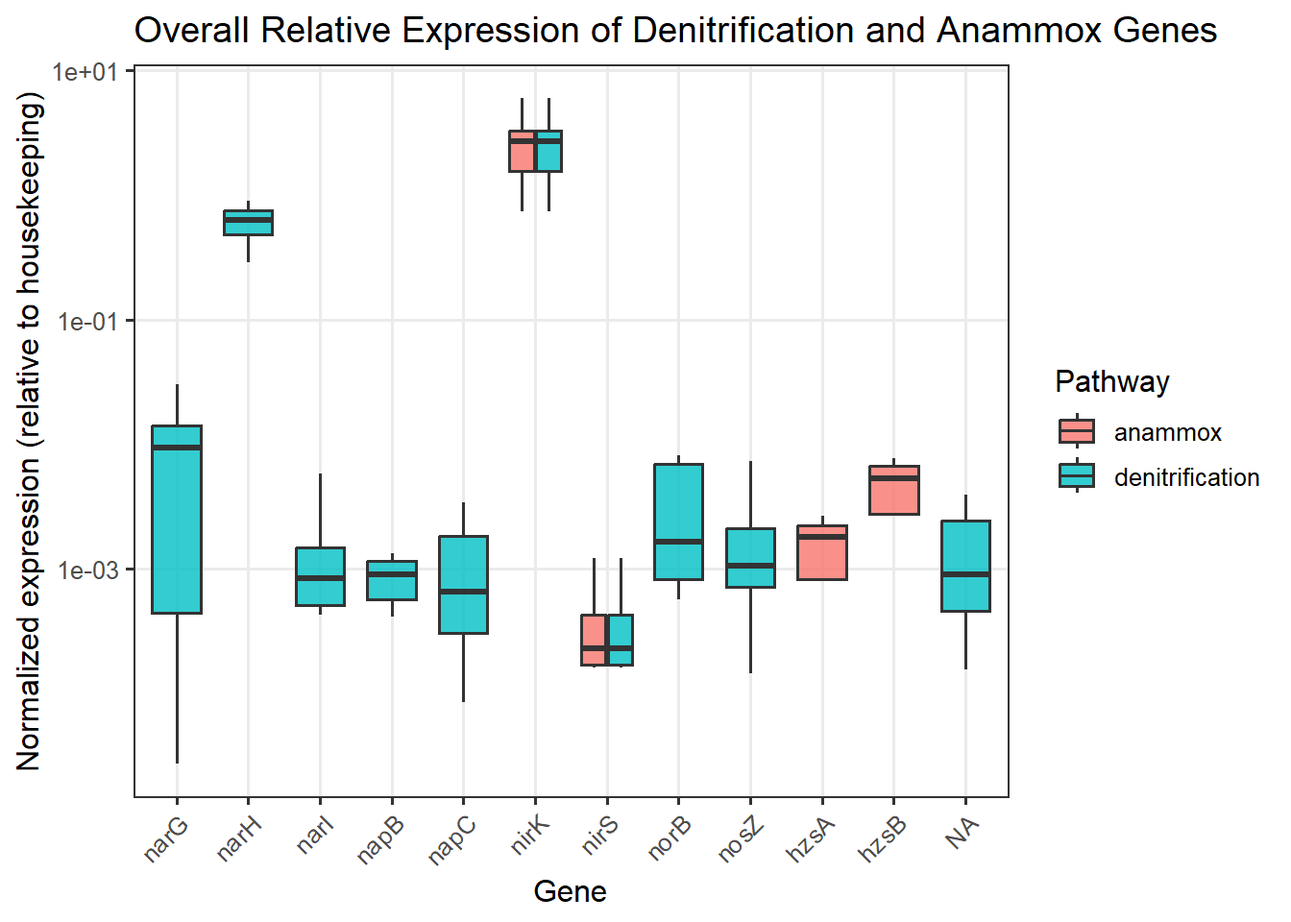
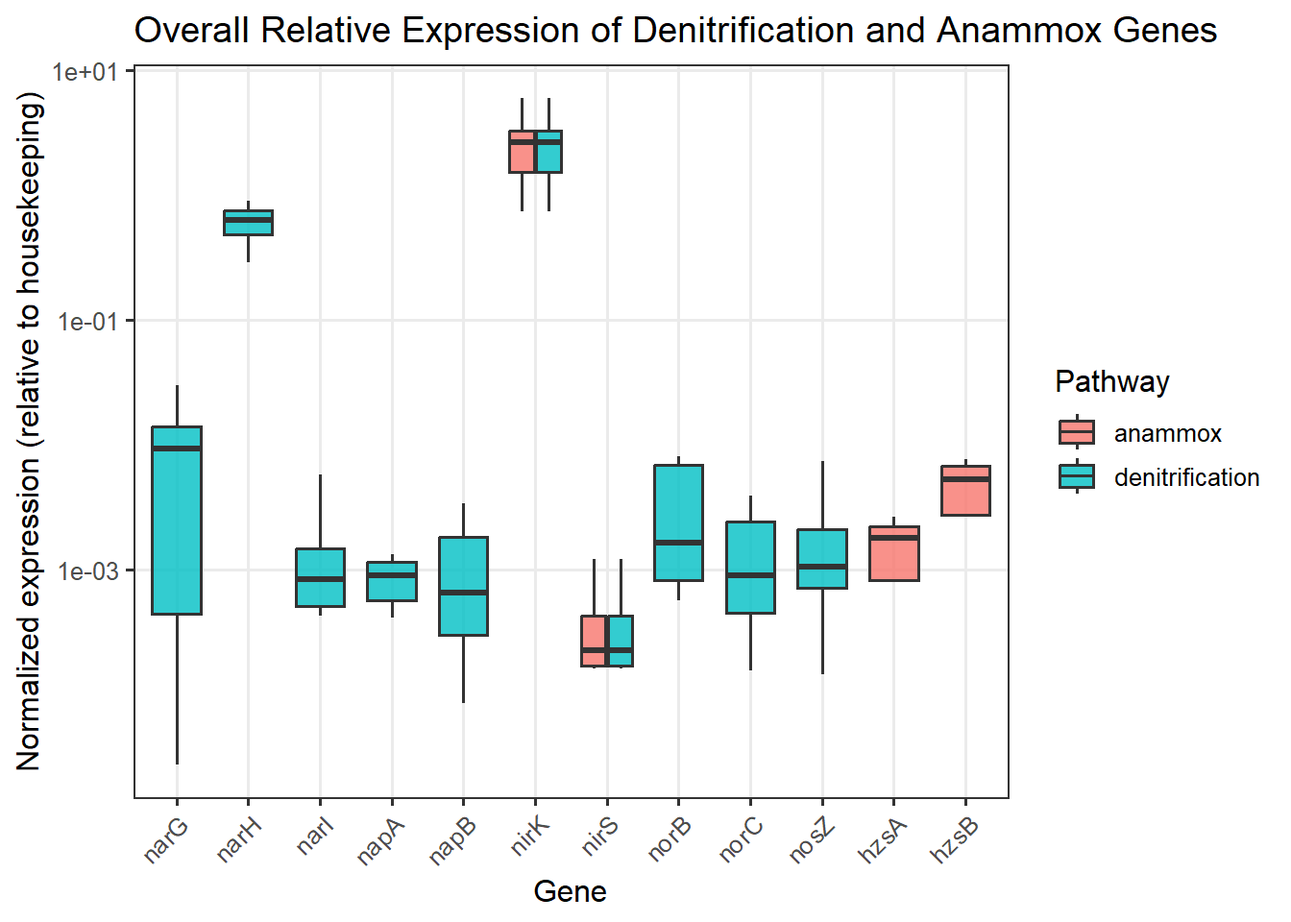
updates from home

diff --git a/_site/index.html b/_site/index.html
@@ -147,7 +147,10 @@ pre > code.sourceCode > span > a:first-child::before { text-decoration: underlin
   <li><a href="#station-3-1" id="toc-station-3-1" class="nav-link" data-scroll-target="#station-3-1">Station 3</a></li>
   <li><a href="#summary-1" id="toc-summary-1" class="nav-link" data-scroll-target="#summary-1">Summary</a></li>
   </ul></li>
-  <li><a href="#normalising-gene-coverages" id="toc-normalising-gene-coverages" class="nav-link" data-scroll-target="#normalising-gene-coverages">Normalising gene coverages</a></li>
+  <li><a href="#normalising-gene-coverages" id="toc-normalising-gene-coverages" class="nav-link" data-scroll-target="#normalising-gene-coverages">Normalising gene coverages</a>
+  <ul class="collapse">
+  <li><a href="#final-figure-functional-classification" id="toc-final-figure-functional-classification" class="nav-link" data-scroll-target="#final-figure-functional-classification">Final figure: functional classification</a></li>
+  </ul></li>
   <li><a href="#mapping-transcripts-to-genomes-of-potential-denitrifiers" id="toc-mapping-transcripts-to-genomes-of-potential-denitrifiers" class="nav-link" data-scroll-target="#mapping-transcripts-to-genomes-of-potential-denitrifiers">Mapping transcripts to genomes of potential denitrifiers</a></li>
   <li><a href="#extraction-of-the-community-profile" id="toc-extraction-of-the-community-profile" class="nav-link" data-scroll-target="#extraction-of-the-community-profile">Extraction of the community profile</a>
   <ul class="collapse">
@@ -4383,13 +4386,6 @@ code {
 </div>
 <p>Same for the housekeeping genes:</p>
 <div class="cell">
-<div class="cell-output cell-output-stdout">
-<pre><code># A tibble: 0 × 5
-# ℹ 5 variables: station &lt;chr&gt;, sample &lt;chr&gt;, rpoB_cov &lt;dbl&gt;, gyrB_cov &lt;dbl&gt;,
-#   hk_geom &lt;dbl&gt;</code></pre>
-</div>
-</div>
-<div class="cell">
 <div class="cell-output-display">
 <div>
 <figure class="figure">
@@ -4433,6 +4429,26 @@ code {
 <p><strong>Interpretation of denitrification gene expression patterns</strong> The heatmap reveals that denitrification activity is dominated by the nitrite reduction step, with nirK (K00368) showing consistently higher normalized expression than other genes, particularly in mid-depth samples such as St3_S14M. In contrast, genes involved in nitrate reduction (nar and nap complexes) exhibit moderate and more uniform expression across samples, suggesting that upstream substrate availability may not be limiting. Notably, expression of nosZ (K00376), responsible for the final reduction of N₂O to N₂, is consistently low or absent, indicating that denitrification may be incomplete and potentially leading to the accumulation of nitrous oxide. Overall, the observed patterns suggest that denitrification is actively expressed in the studied water column, with pronounced variability across depths and stations, and a potential imbalance between upstream and downstream steps of the pathway.</p>
 </div>
 </div>
+</section>
+<section id="final-figure-functional-classification" class="level3">
+<h3 class="anchored" data-anchor-id="final-figure-functional-classification">Final figure: functional classification</h3>
+<p>Let’s use discret values instead of a continuous gradient of normailsed expression.</p>
+<ul>
+<li>Values around 0.1–1 → very strong expression</li>
+<li>Values around 0.01–0.1 → moderate</li>
+<li>Values &lt;0.001 → low but detectable</li>
+<li>Values ≈0 → absent / negligible</li>
+</ul>
+<div class="cell">
+<div class="cell-output-display">
+<div>
+<figure class="figure">
+<p><img src="BIOPOLE_Chukchi_metaT_files/figure-html/unnamed-chunk-41-1.png" class="img-fluid figure-img" width="768"></p>
+</figure>
+</div>
+</div>
+</div>
+<p>Expression levels were categorized into four classes based on normalized coverage: absent (0), low (&lt;0.1%), moderate (10⁻²–10⁻¹), and high (&gt;10⁻¹), allowing visualization of relative transcriptional activity across denitrification steps.</p>
 </section>
 </section>
 <section id="mapping-transcripts-to-genomes-of-potential-denitrifiers" class="level2">
@@ -4508,35 +4524,35 @@ code {
 <div class="cell">
 <details class="code-fold">
 <summary>Code</summary>
-<div class="code-copy-outer-scaffold"><div class="sourceCode cell-code" id="cb28"><pre class="sourceCode bash code-with-copy"><code class="sourceCode bash"><span id="cb28-1"><a href="#cb28-1" aria-hidden="true" tabindex="-1"></a><span class="ex">kraken2</span> <span class="dt">\</span></span>
-<span id="cb28-2"><a href="#cb28-2" aria-hidden="true" tabindex="-1"></a>  <span class="at">--db</span> /dssgfs01/scratch/ote_db/kraken/kraken_standard-16 <span class="dt">\ </span></span>
-<span id="cb28-3"><a href="#cb28-3" aria-hidden="true" tabindex="-1"></a>  <span class="ex">--threads</span> 60 <span class="dt">\ </span></span>
-<span id="cb28-4"><a href="#cb28-4" aria-hidden="true" tabindex="-1"></a>  <span class="ex">--gzip-compressed</span> <span class="dt">\ </span></span>
-<span id="cb28-5"><a href="#cb28-5" aria-hidden="true" tabindex="-1"></a>  <span class="ex">--report</span> St1_S4S_report.txt <span class="dt">\ </span></span>
-<span id="cb28-6"><a href="#cb28-6" aria-hidden="true" tabindex="-1"></a>  <span class="ex">--output</span> St1_S4S_kraken.out <span class="dt">\ </span></span>
-<span id="cb28-7"><a href="#cb28-7" aria-hidden="true" tabindex="-1"></a>  <span class="ex">--paired</span> 1-S4S/1-S4S_RNA_clean_fwd.fq.gz 1-S4S/1-S4S_RNA_clean_rev.fq.gz</span>
-<span id="cb28-8"><a href="#cb28-8" aria-hidden="true" tabindex="-1"></a>  </span></code></pre></div><button title="Copy to Clipboard" class="code-copy-button"><i class="bi"></i></button></div>
+<div class="code-copy-outer-scaffold"><div class="sourceCode cell-code" id="cb27"><pre class="sourceCode bash code-with-copy"><code class="sourceCode bash"><span id="cb27-1"><a href="#cb27-1" aria-hidden="true" tabindex="-1"></a><span class="ex">kraken2</span> <span class="dt">\</span></span>
+<span id="cb27-2"><a href="#cb27-2" aria-hidden="true" tabindex="-1"></a>  <span class="at">--db</span> /dssgfs01/scratch/ote_db/kraken/kraken_standard-16 <span class="dt">\ </span></span>
+<span id="cb27-3"><a href="#cb27-3" aria-hidden="true" tabindex="-1"></a>  <span class="ex">--threads</span> 60 <span class="dt">\ </span></span>
+<span id="cb27-4"><a href="#cb27-4" aria-hidden="true" tabindex="-1"></a>  <span class="ex">--gzip-compressed</span> <span class="dt">\ </span></span>
+<span id="cb27-5"><a href="#cb27-5" aria-hidden="true" tabindex="-1"></a>  <span class="ex">--report</span> St1_S4S_report.txt <span class="dt">\ </span></span>
+<span id="cb27-6"><a href="#cb27-6" aria-hidden="true" tabindex="-1"></a>  <span class="ex">--output</span> St1_S4S_kraken.out <span class="dt">\ </span></span>
+<span id="cb27-7"><a href="#cb27-7" aria-hidden="true" tabindex="-1"></a>  <span class="ex">--paired</span> 1-S4S/1-S4S_RNA_clean_fwd.fq.gz 1-S4S/1-S4S_RNA_clean_rev.fq.gz</span>
+<span id="cb27-8"><a href="#cb27-8" aria-hidden="true" tabindex="-1"></a>  </span></code></pre></div><button title="Copy to Clipboard" class="code-copy-button"><i class="bi"></i></button></div>
 </details>
 </div>
 <div class="cell">
 <details class="code-fold">
 <summary>Code</summary>
-<div class="code-copy-outer-scaffold"><div class="sourceCode cell-code" id="cb29"><pre class="sourceCode bash code-with-copy"><code class="sourceCode bash"><span id="cb29-1"><a href="#cb29-1" aria-hidden="true" tabindex="-1"></a><span class="ex">bracken</span> <span class="dt">\</span></span>
-<span id="cb29-2"><a href="#cb29-2" aria-hidden="true" tabindex="-1"></a>  <span class="at">-d</span> /dssgfs01/scratch/ote_db/kraken/kraken_standard-16 <span class="dt">\</span></span>
-<span id="cb29-3"><a href="#cb29-3" aria-hidden="true" tabindex="-1"></a>  <span class="at">-i</span> St1_S4S_report.txt <span class="dt">\</span></span>
-<span id="cb29-4"><a href="#cb29-4" aria-hidden="true" tabindex="-1"></a>  <span class="at">-o</span> St1_S4S.bracken.F <span class="dt">\</span></span>
-<span id="cb29-5"><a href="#cb29-5" aria-hidden="true" tabindex="-1"></a>  <span class="at">-r</span> 150 <span class="dt">\</span></span>
-<span id="cb29-6"><a href="#cb29-6" aria-hidden="true" tabindex="-1"></a>  <span class="at">-l</span> F</span></code></pre></div><button title="Copy to Clipboard" class="code-copy-button"><i class="bi"></i></button></div>
+<div class="code-copy-outer-scaffold"><div class="sourceCode cell-code" id="cb28"><pre class="sourceCode bash code-with-copy"><code class="sourceCode bash"><span id="cb28-1"><a href="#cb28-1" aria-hidden="true" tabindex="-1"></a><span class="ex">bracken</span> <span class="dt">\</span></span>
+<span id="cb28-2"><a href="#cb28-2" aria-hidden="true" tabindex="-1"></a>  <span class="at">-d</span> /dssgfs01/scratch/ote_db/kraken/kraken_standard-16 <span class="dt">\</span></span>
+<span id="cb28-3"><a href="#cb28-3" aria-hidden="true" tabindex="-1"></a>  <span class="at">-i</span> St1_S4S_report.txt <span class="dt">\</span></span>
+<span id="cb28-4"><a href="#cb28-4" aria-hidden="true" tabindex="-1"></a>  <span class="at">-o</span> St1_S4S.bracken.F <span class="dt">\</span></span>
+<span id="cb28-5"><a href="#cb28-5" aria-hidden="true" tabindex="-1"></a>  <span class="at">-r</span> 150 <span class="dt">\</span></span>
+<span id="cb28-6"><a href="#cb28-6" aria-hidden="true" tabindex="-1"></a>  <span class="at">-l</span> F</span></code></pre></div><button title="Copy to Clipboard" class="code-copy-button"><i class="bi"></i></button></div>
 </details>
 </div>
 <div class="cell">
 <details class="code-fold">
 <summary>Code</summary>
-<div class="code-copy-outer-scaffold"><div class="sourceCode cell-code" id="cb30"><pre class="sourceCode bash code-with-copy"><code class="sourceCode bash"><span id="cb30-1"><a href="#cb30-1" aria-hidden="true" tabindex="-1"></a><span class="co"># 1) Convert Kraken2 output to Krona input</span></span>
-<span id="cb30-2"><a href="#cb30-2" aria-hidden="true" tabindex="-1"></a><span class="fu">cut</span> <span class="at">-f2,3</span> St1_S4S_kraken.out <span class="op">&gt;</span> St1_S4S.krona.tsv</span>
-<span id="cb30-3"><a href="#cb30-3" aria-hidden="true" tabindex="-1"></a></span>
-<span id="cb30-4"><a href="#cb30-4" aria-hidden="true" tabindex="-1"></a><span class="co"># 2) Make the Krona HTML</span></span>
-<span id="cb30-5"><a href="#cb30-5" aria-hidden="true" tabindex="-1"></a><span class="ex">ktImportTaxonomy</span> <span class="at">-t</span> 2 <span class="at">-m</span> 3 <span class="at">-o</span> St1_S4S_krona.html St1_S4S.krona.tsv</span></code></pre></div><button title="Copy to Clipboard" class="code-copy-button"><i class="bi"></i></button></div>
+<div class="code-copy-outer-scaffold"><div class="sourceCode cell-code" id="cb29"><pre class="sourceCode bash code-with-copy"><code class="sourceCode bash"><span id="cb29-1"><a href="#cb29-1" aria-hidden="true" tabindex="-1"></a><span class="co"># 1) Convert Kraken2 output to Krona input</span></span>
+<span id="cb29-2"><a href="#cb29-2" aria-hidden="true" tabindex="-1"></a><span class="fu">cut</span> <span class="at">-f2,3</span> St1_S4S_kraken.out <span class="op">&gt;</span> St1_S4S.krona.tsv</span>
+<span id="cb29-3"><a href="#cb29-3" aria-hidden="true" tabindex="-1"></a></span>
+<span id="cb29-4"><a href="#cb29-4" aria-hidden="true" tabindex="-1"></a><span class="co"># 2) Make the Krona HTML</span></span>
+<span id="cb29-5"><a href="#cb29-5" aria-hidden="true" tabindex="-1"></a><span class="ex">ktImportTaxonomy</span> <span class="at">-t</span> 2 <span class="at">-m</span> 3 <span class="at">-o</span> St1_S4S_krona.html St1_S4S.krona.tsv</span></code></pre></div><button title="Copy to Clipboard" class="code-copy-button"><i class="bi"></i></button></div>
 </details>
 </div>
 <p>Approximately <strong>17%</strong> of metatranscriptomic reads could be taxonomically classified using Kraken2 with the standard database (16 GB). Krona plots were therefore generated using classified reads only, and complementary family-level profiles were produced using Bracken.</p>
@@ -4546,7 +4562,7 @@ code {
 <div class="cell-output-display">
 <div>
 <figure class="figure">
-<p><img src="BIOPOLE_Chukchi_metaT_files/figure-html/unnamed-chunk-44-1.png" class="img-fluid figure-img" width="672"></p>
+<p><img src="BIOPOLE_Chukchi_metaT_files/figure-html/unnamed-chunk-45-1.png" class="img-fluid figure-img" width="672"></p>
 </figure>
 </div>
 </div>
@@ -4558,7 +4574,7 @@ code {
 <div class="cell-output-display">
 <div>
 <figure class="figure">
-<p><img src="BIOPOLE_Chukchi_metaT_files/figure-html/unnamed-chunk-45-1.png" class="img-fluid figure-img" width="672"></p>
+<p><img src="BIOPOLE_Chukchi_metaT_files/figure-html/unnamed-chunk-46-1.png" class="img-fluid figure-img" width="672"></p>
 </figure>
 </div>
 </div>
@@ -4570,7 +4586,7 @@ code {
 <div class="cell-output-display">
 <div>
 <figure class="figure">
-<p><img src="BIOPOLE_Chukchi_metaT_files/figure-html/unnamed-chunk-46-1.png" class="img-fluid figure-img" width="672"></p>
+<p><img src="BIOPOLE_Chukchi_metaT_files/figure-html/unnamed-chunk-47-1.png" class="img-fluid figure-img" width="672"></p>
 </figure>
 </div>
 </div>
@@ -4658,86 +4674,86 @@ code {
 <div class="cell">
 <details class="code-fold">
 <summary>Code</summary>
-<div class="code-copy-outer-scaffold"><div class="sourceCode cell-code" id="cb31"><pre class="sourceCode bash code-with-copy"><code class="sourceCode bash"><span id="cb31-1"><a href="#cb31-1" aria-hidden="true" tabindex="-1"></a><span class="co"># 1) Download the catalog of all genomes and files:</span></span>
-<span id="cb31-2"><a href="#cb31-2" aria-hidden="true" tabindex="-1"></a><span class="ex">curl</span> <span class="at">-O</span> https://sunagawalab.ethz.ch/share/microbiomics/ocean/db/2.0/data/catalogs/OMDBv2.0_data.tsv.gz</span>
-<span id="cb31-3"><a href="#cb31-3" aria-hidden="true" tabindex="-1"></a></span>
-<span id="cb31-4"><a href="#cb31-4" aria-hidden="true" tabindex="-1"></a><span class="co"># 2) Unzip it</span></span>
-<span id="cb31-5"><a href="#cb31-5" aria-hidden="true" tabindex="-1"></a><span class="fu">gunzip</span> OMDBv2.0_data.tsv.gz</span>
-<span id="cb31-6"><a href="#cb31-6" aria-hidden="true" tabindex="-1"></a></span>
-<span id="cb31-7"><a href="#cb31-7" aria-hidden="true" tabindex="-1"></a><span class="co"># 3) Use it to download the MAGs associated with SAMEA4397903</span></span>
-<span id="cb31-8"><a href="#cb31-8" aria-hidden="true" tabindex="-1"></a><span class="fu">grep</span> <span class="st">"TARA_SAMEA4397903_MAG_"</span> OMDBv2.0_data.tsv <span class="kw">|</span> <span class="fu">cut</span> <span class="at">-f4</span> <span class="kw">|</span> <span class="fu">xargs</span> <span class="at">-n</span> 1 curl <span class="at">-O</span></span></code></pre></div><button title="Copy to Clipboard" class="code-copy-button"><i class="bi"></i></button></div>
+<div class="code-copy-outer-scaffold"><div class="sourceCode cell-code" id="cb30"><pre class="sourceCode bash code-with-copy"><code class="sourceCode bash"><span id="cb30-1"><a href="#cb30-1" aria-hidden="true" tabindex="-1"></a><span class="co"># 1) Download the catalog of all genomes and files:</span></span>
+<span id="cb30-2"><a href="#cb30-2" aria-hidden="true" tabindex="-1"></a><span class="ex">curl</span> <span class="at">-O</span> https://sunagawalab.ethz.ch/share/microbiomics/ocean/db/2.0/data/catalogs/OMDBv2.0_data.tsv.gz</span>
+<span id="cb30-3"><a href="#cb30-3" aria-hidden="true" tabindex="-1"></a></span>
+<span id="cb30-4"><a href="#cb30-4" aria-hidden="true" tabindex="-1"></a><span class="co"># 2) Unzip it</span></span>
+<span id="cb30-5"><a href="#cb30-5" aria-hidden="true" tabindex="-1"></a><span class="fu">gunzip</span> OMDBv2.0_data.tsv.gz</span>
+<span id="cb30-6"><a href="#cb30-6" aria-hidden="true" tabindex="-1"></a></span>
+<span id="cb30-7"><a href="#cb30-7" aria-hidden="true" tabindex="-1"></a><span class="co"># 3) Use it to download the MAGs associated with SAMEA4397903</span></span>
+<span id="cb30-8"><a href="#cb30-8" aria-hidden="true" tabindex="-1"></a><span class="fu">grep</span> <span class="st">"TARA_SAMEA4397903_MAG_"</span> OMDBv2.0_data.tsv <span class="kw">|</span> <span class="fu">cut</span> <span class="at">-f4</span> <span class="kw">|</span> <span class="fu">xargs</span> <span class="at">-n</span> 1 curl <span class="at">-O</span></span></code></pre></div><button title="Copy to Clipboard" class="code-copy-button"><i class="bi"></i></button></div>
 </details>
 </div>
 <p>Now I want to change the name of the MAGs so they show the name of the species they have been associated to:</p>
 <div class="cell">
 <details class="code-fold">
 <summary>Code</summary>
-<div class="code-copy-outer-scaffold"><div class="sourceCode cell-code" id="cb32"><pre class="sourceCode bash code-with-copy"><code class="sourceCode bash"><span id="cb32-1"><a href="#cb32-1" aria-hidden="true" tabindex="-1"></a><span class="fu">awk</span> <span class="at">-F</span><span class="st">'\t'</span> <span class="st">'NR&gt;1 {print $1 "\t" $8}'</span> taxonomy_mags <span class="kw">|</span> <span class="cf">while</span> <span class="va">IFS</span><span class="op">=</span><span class="st">$'</span><span class="dt">\t</span><span class="st">'</span> <span class="bu">read</span> <span class="at">-r</span> <span class="va">id</span> <span class="va">species</span><span class="kw">;</span> <span class="cf">do</span></span>
-<span id="cb32-2"><a href="#cb32-2" aria-hidden="true" tabindex="-1"></a>    <span class="va">species_clean</span><span class="op">=</span><span class="va">$(</span><span class="bu">echo</span> <span class="st">"</span><span class="va">$species</span><span class="st">"</span> <span class="kw">|</span> <span class="fu">tr</span> <span class="st">' /'</span> <span class="st">'__'</span><span class="va">)</span></span>
-<span id="cb32-3"><a href="#cb32-3" aria-hidden="true" tabindex="-1"></a>    <span class="va">old</span><span class="op">=</span><span class="st">"</span><span class="va">${id}</span><span class="st">.fa.gz"</span></span>
-<span id="cb32-4"><a href="#cb32-4" aria-hidden="true" tabindex="-1"></a>    <span class="va">base</span><span class="op">=</span><span class="st">"</span><span class="va">${species_clean}</span><span class="st">.fa.gz"</span></span>
-<span id="cb32-5"><a href="#cb32-5" aria-hidden="true" tabindex="-1"></a></span>
-<span id="cb32-6"><a href="#cb32-6" aria-hidden="true" tabindex="-1"></a>    <span class="bu">[</span> <span class="ot">-e</span> <span class="st">"</span><span class="va">$old</span><span class="st">"</span> <span class="bu">]</span> <span class="kw">||</span> <span class="cf">continue</span></span>
-<span id="cb32-7"><a href="#cb32-7" aria-hidden="true" tabindex="-1"></a></span>
-<span id="cb32-8"><a href="#cb32-8" aria-hidden="true" tabindex="-1"></a>    <span class="va">new</span><span class="op">=</span><span class="st">"</span><span class="va">$base</span><span class="st">"</span></span>
-<span id="cb32-9"><a href="#cb32-9" aria-hidden="true" tabindex="-1"></a>    <span class="va">n</span><span class="op">=</span>2</span>
-<span id="cb32-10"><a href="#cb32-10" aria-hidden="true" tabindex="-1"></a>    <span class="cf">while</span> <span class="bu">[</span> <span class="ot">-e</span> <span class="st">"</span><span class="va">$new</span><span class="st">"</span> <span class="bu">]</span><span class="kw">;</span> <span class="cf">do</span></span>
-<span id="cb32-11"><a href="#cb32-11" aria-hidden="true" tabindex="-1"></a>        <span class="va">new</span><span class="op">=</span><span class="st">"</span><span class="va">${species_clean}</span><span class="st">_</span><span class="va">${n}</span><span class="st">.fa.gz"</span></span>
-<span id="cb32-12"><a href="#cb32-12" aria-hidden="true" tabindex="-1"></a>        <span class="va">n</span><span class="op">=</span><span class="va">$((n</span><span class="op">+</span><span class="dv">1</span><span class="va">))</span></span>
-<span id="cb32-13"><a href="#cb32-13" aria-hidden="true" tabindex="-1"></a>    <span class="cf">done</span></span>
-<span id="cb32-14"><a href="#cb32-14" aria-hidden="true" tabindex="-1"></a></span>
-<span id="cb32-15"><a href="#cb32-15" aria-hidden="true" tabindex="-1"></a>    <span class="fu">mv</span> <span class="st">"</span><span class="va">$old</span><span class="st">"</span> <span class="st">"</span><span class="va">$new</span><span class="st">"</span></span>
-<span id="cb32-16"><a href="#cb32-16" aria-hidden="true" tabindex="-1"></a><span class="cf">done</span></span></code></pre></div><button title="Copy to Clipboard" class="code-copy-button"><i class="bi"></i></button></div>
+<div class="code-copy-outer-scaffold"><div class="sourceCode cell-code" id="cb31"><pre class="sourceCode bash code-with-copy"><code class="sourceCode bash"><span id="cb31-1"><a href="#cb31-1" aria-hidden="true" tabindex="-1"></a><span class="fu">awk</span> <span class="at">-F</span><span class="st">'\t'</span> <span class="st">'NR&gt;1 {print $1 "\t" $8}'</span> taxonomy_mags <span class="kw">|</span> <span class="cf">while</span> <span class="va">IFS</span><span class="op">=</span><span class="st">$'</span><span class="dt">\t</span><span class="st">'</span> <span class="bu">read</span> <span class="at">-r</span> <span class="va">id</span> <span class="va">species</span><span class="kw">;</span> <span class="cf">do</span></span>
+<span id="cb31-2"><a href="#cb31-2" aria-hidden="true" tabindex="-1"></a>    <span class="va">species_clean</span><span class="op">=</span><span class="va">$(</span><span class="bu">echo</span> <span class="st">"</span><span class="va">$species</span><span class="st">"</span> <span class="kw">|</span> <span class="fu">tr</span> <span class="st">' /'</span> <span class="st">'__'</span><span class="va">)</span></span>
+<span id="cb31-3"><a href="#cb31-3" aria-hidden="true" tabindex="-1"></a>    <span class="va">old</span><span class="op">=</span><span class="st">"</span><span class="va">${id}</span><span class="st">.fa.gz"</span></span>
+<span id="cb31-4"><a href="#cb31-4" aria-hidden="true" tabindex="-1"></a>    <span class="va">base</span><span class="op">=</span><span class="st">"</span><span class="va">${species_clean}</span><span class="st">.fa.gz"</span></span>
+<span id="cb31-5"><a href="#cb31-5" aria-hidden="true" tabindex="-1"></a></span>
+<span id="cb31-6"><a href="#cb31-6" aria-hidden="true" tabindex="-1"></a>    <span class="bu">[</span> <span class="ot">-e</span> <span class="st">"</span><span class="va">$old</span><span class="st">"</span> <span class="bu">]</span> <span class="kw">||</span> <span class="cf">continue</span></span>
+<span id="cb31-7"><a href="#cb31-7" aria-hidden="true" tabindex="-1"></a></span>
+<span id="cb31-8"><a href="#cb31-8" aria-hidden="true" tabindex="-1"></a>    <span class="va">new</span><span class="op">=</span><span class="st">"</span><span class="va">$base</span><span class="st">"</span></span>
+<span id="cb31-9"><a href="#cb31-9" aria-hidden="true" tabindex="-1"></a>    <span class="va">n</span><span class="op">=</span>2</span>
+<span id="cb31-10"><a href="#cb31-10" aria-hidden="true" tabindex="-1"></a>    <span class="cf">while</span> <span class="bu">[</span> <span class="ot">-e</span> <span class="st">"</span><span class="va">$new</span><span class="st">"</span> <span class="bu">]</span><span class="kw">;</span> <span class="cf">do</span></span>
+<span id="cb31-11"><a href="#cb31-11" aria-hidden="true" tabindex="-1"></a>        <span class="va">new</span><span class="op">=</span><span class="st">"</span><span class="va">${species_clean}</span><span class="st">_</span><span class="va">${n}</span><span class="st">.fa.gz"</span></span>
+<span id="cb31-12"><a href="#cb31-12" aria-hidden="true" tabindex="-1"></a>        <span class="va">n</span><span class="op">=</span><span class="va">$((n</span><span class="op">+</span><span class="dv">1</span><span class="va">))</span></span>
+<span id="cb31-13"><a href="#cb31-13" aria-hidden="true" tabindex="-1"></a>    <span class="cf">done</span></span>
+<span id="cb31-14"><a href="#cb31-14" aria-hidden="true" tabindex="-1"></a></span>
+<span id="cb31-15"><a href="#cb31-15" aria-hidden="true" tabindex="-1"></a>    <span class="fu">mv</span> <span class="st">"</span><span class="va">$old</span><span class="st">"</span> <span class="st">"</span><span class="va">$new</span><span class="st">"</span></span>
+<span id="cb31-16"><a href="#cb31-16" aria-hidden="true" tabindex="-1"></a><span class="cf">done</span></span></code></pre></div><button title="Copy to Clipboard" class="code-copy-button"><i class="bi"></i></button></div>
 </details>
 </div>
 <p>After unziping them all, we can generate an</p>
 <div class="cell">
 <details class="code-fold">
 <summary>Code</summary>
-<div class="code-copy-outer-scaffold"><div class="sourceCode cell-code" id="cb33"><pre class="sourceCode bash code-with-copy"><code class="sourceCode bash"><span id="cb33-1"><a href="#cb33-1" aria-hidden="true" tabindex="-1"></a><span class="cf">for</span> i <span class="kw">in</span> <span class="kw">`</span><span class="fu">ls</span> <span class="pp">*</span>fa <span class="kw">|</span> <span class="fu">awk</span> <span class="st">'BEGIN{FS=".fa"}{print $1}'</span><span class="kw">`</span></span>
-<span id="cb33-2"><a href="#cb33-2" aria-hidden="true" tabindex="-1"></a><span class="cf">do</span></span>
-<span id="cb33-3"><a href="#cb33-3" aria-hidden="true" tabindex="-1"></a>    <span class="ex">anvi-gen-contigs-database</span> <span class="at">-f</span> <span class="va">$i</span>.fa <span class="at">-o</span> <span class="va">$i</span>.db <span class="at">-T</span> 60</span>
-<span id="cb33-4"><a href="#cb33-4" aria-hidden="true" tabindex="-1"></a>    <span class="ex">anvi-run-hmms</span> <span class="at">-c</span> <span class="va">$i</span>.db <span class="at">-T</span> 60</span>
-<span id="cb33-5"><a href="#cb33-5" aria-hidden="true" tabindex="-1"></a>    <span class="ex">anvi-run-ncbi-cogs</span> <span class="at">-c</span> <span class="va">$i</span>.db <span class="at">-T</span> 30</span>
-<span id="cb33-6"><a href="#cb33-6" aria-hidden="true" tabindex="-1"></a>    <span class="ex">anvi-run-kegg-kofams</span> <span class="at">-c</span> <span class="va">$i</span>.db <span class="at">-T</span> 30</span>
-<span id="cb33-7"><a href="#cb33-7" aria-hidden="true" tabindex="-1"></a>    <span class="ex">anvi-run-scg-taxonomy</span> <span class="at">-c</span> <span class="va">$i</span>.db <span class="at">-T</span> 30</span>
-<span id="cb33-8"><a href="#cb33-8" aria-hidden="true" tabindex="-1"></a><span class="cf">done</span></span></code></pre></div><button title="Copy to Clipboard" class="code-copy-button"><i class="bi"></i></button></div>
+<div class="code-copy-outer-scaffold"><div class="sourceCode cell-code" id="cb32"><pre class="sourceCode bash code-with-copy"><code class="sourceCode bash"><span id="cb32-1"><a href="#cb32-1" aria-hidden="true" tabindex="-1"></a><span class="cf">for</span> i <span class="kw">in</span> <span class="kw">`</span><span class="fu">ls</span> <span class="pp">*</span>fa <span class="kw">|</span> <span class="fu">awk</span> <span class="st">'BEGIN{FS=".fa"}{print $1}'</span><span class="kw">`</span></span>
+<span id="cb32-2"><a href="#cb32-2" aria-hidden="true" tabindex="-1"></a><span class="cf">do</span></span>
+<span id="cb32-3"><a href="#cb32-3" aria-hidden="true" tabindex="-1"></a>    <span class="ex">anvi-gen-contigs-database</span> <span class="at">-f</span> <span class="va">$i</span>.fa <span class="at">-o</span> <span class="va">$i</span>.db <span class="at">-T</span> 60</span>
+<span id="cb32-4"><a href="#cb32-4" aria-hidden="true" tabindex="-1"></a>    <span class="ex">anvi-run-hmms</span> <span class="at">-c</span> <span class="va">$i</span>.db <span class="at">-T</span> 60</span>
+<span id="cb32-5"><a href="#cb32-5" aria-hidden="true" tabindex="-1"></a>    <span class="ex">anvi-run-ncbi-cogs</span> <span class="at">-c</span> <span class="va">$i</span>.db <span class="at">-T</span> 30</span>
+<span id="cb32-6"><a href="#cb32-6" aria-hidden="true" tabindex="-1"></a>    <span class="ex">anvi-run-kegg-kofams</span> <span class="at">-c</span> <span class="va">$i</span>.db <span class="at">-T</span> 30</span>
+<span id="cb32-7"><a href="#cb32-7" aria-hidden="true" tabindex="-1"></a>    <span class="ex">anvi-run-scg-taxonomy</span> <span class="at">-c</span> <span class="va">$i</span>.db <span class="at">-T</span> 30</span>
+<span id="cb32-8"><a href="#cb32-8" aria-hidden="true" tabindex="-1"></a><span class="cf">done</span></span></code></pre></div><button title="Copy to Clipboard" class="code-copy-button"><i class="bi"></i></button></div>
 </details>
 </div>
 <p>Next, we need to make a TAB-delimited ‘external genomes’ file to describe these genomes and associate them with a name.</p>
 <div class="cell">
 <details class="code-fold">
 <summary>Code</summary>
-<div class="code-copy-outer-scaffold"><div class="sourceCode cell-code" id="cb34"><pre class="sourceCode bash code-with-copy"><code class="sourceCode bash"><span id="cb34-1"><a href="#cb34-1" aria-hidden="true" tabindex="-1"></a><span class="bu">echo</span> <span class="at">-e</span> <span class="st">"name\tcontigs_db_path"</span> <span class="op">&gt;</span> external_genomes.txt</span>
-<span id="cb34-2"><a href="#cb34-2" aria-hidden="true" tabindex="-1"></a><span class="cf">for</span> db <span class="kw">in</span> <span class="pp">*</span>.db<span class="kw">;</span> <span class="cf">do</span></span>
-<span id="cb34-3"><a href="#cb34-3" aria-hidden="true" tabindex="-1"></a>    <span class="va">name</span><span class="op">=</span><span class="st">"</span><span class="va">${db</span><span class="op">%</span>.db<span class="va">}</span><span class="st">"</span></span>
-<span id="cb34-4"><a href="#cb34-4" aria-hidden="true" tabindex="-1"></a>    <span class="bu">echo</span> <span class="at">-e</span> <span class="st">"</span><span class="va">${name}</span><span class="st">\t</span><span class="va">${db}</span><span class="st">"</span> <span class="op">&gt;&gt;</span> external_genomes.txt</span>
-<span id="cb34-5"><a href="#cb34-5" aria-hidden="true" tabindex="-1"></a><span class="cf">done</span></span></code></pre></div><button title="Copy to Clipboard" class="code-copy-button"><i class="bi"></i></button></div>
+<div class="code-copy-outer-scaffold"><div class="sourceCode cell-code" id="cb33"><pre class="sourceCode bash code-with-copy"><code class="sourceCode bash"><span id="cb33-1"><a href="#cb33-1" aria-hidden="true" tabindex="-1"></a><span class="bu">echo</span> <span class="at">-e</span> <span class="st">"name\tcontigs_db_path"</span> <span class="op">&gt;</span> external_genomes.txt</span>
+<span id="cb33-2"><a href="#cb33-2" aria-hidden="true" tabindex="-1"></a><span class="cf">for</span> db <span class="kw">in</span> <span class="pp">*</span>.db<span class="kw">;</span> <span class="cf">do</span></span>
+<span id="cb33-3"><a href="#cb33-3" aria-hidden="true" tabindex="-1"></a>    <span class="va">name</span><span class="op">=</span><span class="st">"</span><span class="va">${db</span><span class="op">%</span>.db<span class="va">}</span><span class="st">"</span></span>
+<span id="cb33-4"><a href="#cb33-4" aria-hidden="true" tabindex="-1"></a>    <span class="bu">echo</span> <span class="at">-e</span> <span class="st">"</span><span class="va">${name}</span><span class="st">\t</span><span class="va">${db}</span><span class="st">"</span> <span class="op">&gt;&gt;</span> external_genomes.txt</span>
+<span id="cb33-5"><a href="#cb33-5" aria-hidden="true" tabindex="-1"></a><span class="cf">done</span></span></code></pre></div><button title="Copy to Clipboard" class="code-copy-button"><i class="bi"></i></button></div>
 </details>
 </div>
 <div class="cell">
 <details class="code-fold">
 <summary>Code</summary>
-<div class="code-copy-outer-scaffold"><div class="sourceCode cell-code" id="cb35"><pre class="sourceCode bash code-with-copy"><code class="sourceCode bash"><span id="cb35-1"><a href="#cb35-1" aria-hidden="true" tabindex="-1"></a><span class="ex">anvi-gen-genomes-storage</span> <span class="at">-e</span> external_genomes.txt <span class="dt">\</span></span>
-<span id="cb35-2"><a href="#cb35-2" aria-hidden="true" tabindex="-1"></a>                         <span class="at">-o</span> Tara_194_mags.db</span></code></pre></div><button title="Copy to Clipboard" class="code-copy-button"><i class="bi"></i></button></div>
+<div class="code-copy-outer-scaffold"><div class="sourceCode cell-code" id="cb34"><pre class="sourceCode bash code-with-copy"><code class="sourceCode bash"><span id="cb34-1"><a href="#cb34-1" aria-hidden="true" tabindex="-1"></a><span class="ex">anvi-gen-genomes-storage</span> <span class="at">-e</span> external_genomes.txt <span class="dt">\</span></span>
+<span id="cb34-2"><a href="#cb34-2" aria-hidden="true" tabindex="-1"></a>                         <span class="at">-o</span> Tara_194_mags.db</span></code></pre></div><button title="Copy to Clipboard" class="code-copy-button"><i class="bi"></i></button></div>
 </details>
 </div>
 <div class="cell">
 <details class="code-fold">
 <summary>Code</summary>
-<div class="code-copy-outer-scaffold"><div class="sourceCode cell-code" id="cb36"><pre class="sourceCode bash code-with-copy"><code class="sourceCode bash"><span id="cb36-1"><a href="#cb36-1" aria-hidden="true" tabindex="-1"></a><span class="ex">anvi-pan-genome</span> <span class="at">-g</span> Tara_194_mags-GENOMES.db <span class="at">--project-name</span> Tara_194 <span class="at">-T</span> 30</span></code></pre></div><button title="Copy to Clipboard" class="code-copy-button"><i class="bi"></i></button></div>
+<div class="code-copy-outer-scaffold"><div class="sourceCode cell-code" id="cb35"><pre class="sourceCode bash code-with-copy"><code class="sourceCode bash"><span id="cb35-1"><a href="#cb35-1" aria-hidden="true" tabindex="-1"></a><span class="ex">anvi-pan-genome</span> <span class="at">-g</span> Tara_194_mags-GENOMES.db <span class="at">--project-name</span> Tara_194 <span class="at">-T</span> 30</span></code></pre></div><button title="Copy to Clipboard" class="code-copy-button"><i class="bi"></i></button></div>
 </details>
 </div>
 <div class="cell">
 <details class="code-fold">
 <summary>Code</summary>
-<div class="code-copy-outer-scaffold"><div class="sourceCode cell-code" id="cb37"><pre class="sourceCode bash code-with-copy"><code class="sourceCode bash"><span id="cb37-1"><a href="#cb37-1" aria-hidden="true" tabindex="-1"></a><span class="ex">anvi-script-add-default-collection</span> <span class="at">-p</span> Tara_194/Tara_194-PAN.db</span>
-<span id="cb37-2"><a href="#cb37-2" aria-hidden="true" tabindex="-1"></a><span class="ex">anvi-summarize</span> <span class="at">-g</span> Tara_194_mags-GENOMES.db <span class="at">-p</span> Tara_194/Tara_194-PAN.db <span class="at">-C</span> DEFAULT</span>
-<span id="cb37-3"><a href="#cb37-3" aria-hidden="true" tabindex="-1"></a></span>
-<span id="cb37-4"><a href="#cb37-4" aria-hidden="true" tabindex="-1"></a><span class="fu">head</span> <span class="at">-n</span> 1 Tara_194_gene_clusters_summary.txt <span class="op">&gt;</span> denitrification_hits.txt</span>
-<span id="cb37-5"><a href="#cb37-5" aria-hidden="true" tabindex="-1"></a><span class="fu">grep</span> <span class="at">-E</span> <span class="st">"K00370|K00371|K00374|K02567|K02568|K00368|K15864|K04561|K02305|K00376"</span> Tara_194_gene_clusters_summary.txt <span class="op">&gt;&gt;</span> denitrification_hits.txt</span>
-<span id="cb37-6"><a href="#cb37-6" aria-hidden="true" tabindex="-1"></a></span>
-<span id="cb37-7"><a href="#cb37-7" aria-hidden="true" tabindex="-1"></a><span class="fu">cut</span> <span class="at">-f1-5,26</span> denitrification_hits.txt</span></code></pre></div><button title="Copy to Clipboard" class="code-copy-button"><i class="bi"></i></button></div>
+<div class="code-copy-outer-scaffold"><div class="sourceCode cell-code" id="cb36"><pre class="sourceCode bash code-with-copy"><code class="sourceCode bash"><span id="cb36-1"><a href="#cb36-1" aria-hidden="true" tabindex="-1"></a><span class="ex">anvi-script-add-default-collection</span> <span class="at">-p</span> Tara_194/Tara_194-PAN.db</span>
+<span id="cb36-2"><a href="#cb36-2" aria-hidden="true" tabindex="-1"></a><span class="ex">anvi-summarize</span> <span class="at">-g</span> Tara_194_mags-GENOMES.db <span class="at">-p</span> Tara_194/Tara_194-PAN.db <span class="at">-C</span> DEFAULT</span>
+<span id="cb36-3"><a href="#cb36-3" aria-hidden="true" tabindex="-1"></a></span>
+<span id="cb36-4"><a href="#cb36-4" aria-hidden="true" tabindex="-1"></a><span class="fu">head</span> <span class="at">-n</span> 1 Tara_194_gene_clusters_summary.txt <span class="op">&gt;</span> denitrification_hits.txt</span>
+<span id="cb36-5"><a href="#cb36-5" aria-hidden="true" tabindex="-1"></a><span class="fu">grep</span> <span class="at">-E</span> <span class="st">"K00370|K00371|K00374|K02567|K02568|K00368|K15864|K04561|K02305|K00376"</span> Tara_194_gene_clusters_summary.txt <span class="op">&gt;&gt;</span> denitrification_hits.txt</span>
+<span id="cb36-6"><a href="#cb36-6" aria-hidden="true" tabindex="-1"></a></span>
+<span id="cb36-7"><a href="#cb36-7" aria-hidden="true" tabindex="-1"></a><span class="fu">cut</span> <span class="at">-f1-5,26</span> denitrification_hits.txt</span></code></pre></div><button title="Copy to Clipboard" class="code-copy-button"><i class="bi"></i></button></div>
 </details>
 </div>
 <table class="caption-top table">
